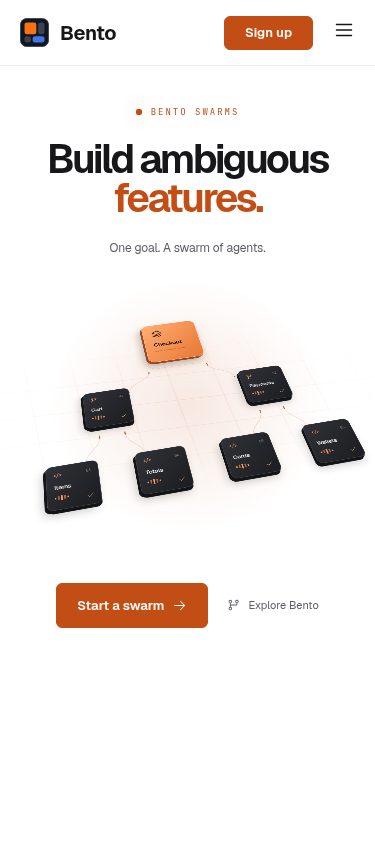
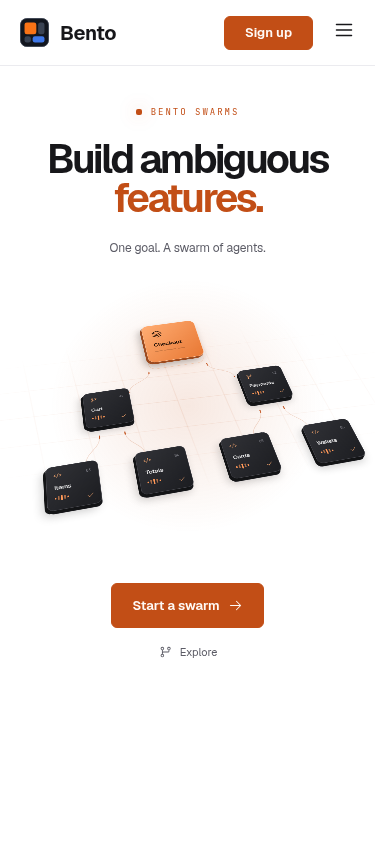
Center swarm CTA with Explore beneath it

Changed region(s): [[0.1467, 0.6729, 0.8507, 0.7953]]

diff --git a/app/swarms/swarms.css b/app/swarms/swarms.css
@@ -36,7 +36,7 @@
 .swarm-agent-activity i:nth-child(2n) { height: 9px; opacity: .6; }
 .swarm-agent-activity i:nth-child(3) { height: 12px; }
 .swarm-agent-check { position: absolute; bottom: 14px; right: 13px; color: #ffad73; }
-.swarm-actions { display: flex; align-items: center; justify-content: center; gap: 24px; margin-top: 48px; position: relative; z-index: 2; }
+.swarm-actions { display: flex; flex-direction: column; align-items: center; justify-content: center; gap: 16px; margin-top: 48px; position: relative; z-index: 2; }
 .swarm-actions > a { display: inline-flex; align-items: center; gap: 8px; }
 .swarm-actions > a:last-child { color: var(--text-muted); font-size: 12px; }
 @media (prefers-reduced-motion: no-preference) {
@@ -82,7 +82,7 @@
   .swarm-stage { height: 290px; width: calc(100% + 32px); margin-left: -16px; margin-top: 0; }
   .swarm-world { transform: scale(.44) rotateX(43deg) rotateZ(-12deg); }
   .swarm-grid { width: 500px; height: 300px; }
-  .swarm-actions { gap: 18px; margin-top: 36px; }
+  .swarm-actions { margin-top: 36px; }
   .swarm-actions > a:last-child { font-size: 11px; }
 }
 @media (max-width: 360px) {

diff --git a/components/swarms/swarm-hero.tsx b/components/swarms/swarm-hero.tsx
@@ -85,6 +85,6 @@ export function SwarmHero() {
         </div>)}
       </div>
     </div>
-    <div className="swarm-actions"><CtaLink href={siteConfig.signupUrl}>Start a swarm <ArrowRight size={15} aria-hidden="true" /></CtaLink><Link href="/docs"><GitBranch size={14} aria-hidden="true" /> Explore Bento</Link></div>
+    <div className="swarm-actions"><CtaLink href={siteConfig.signupUrl}>Start a swarm <ArrowRight size={15} aria-hidden="true" /></CtaLink><Link href="/docs"><GitBranch size={14} aria-hidden="true" /> Explore</Link></div>
   </div>;
 }
